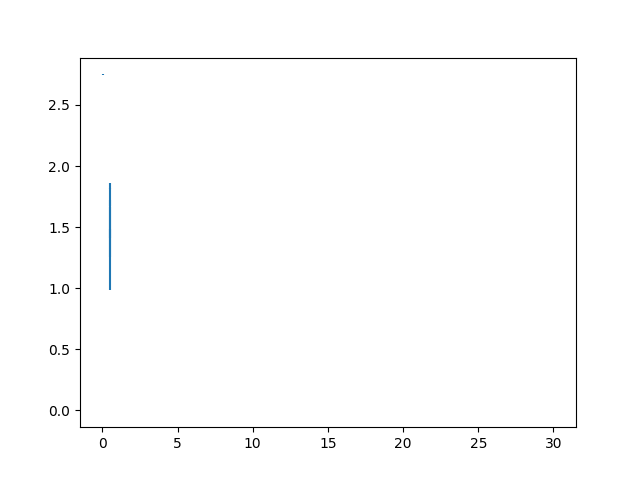
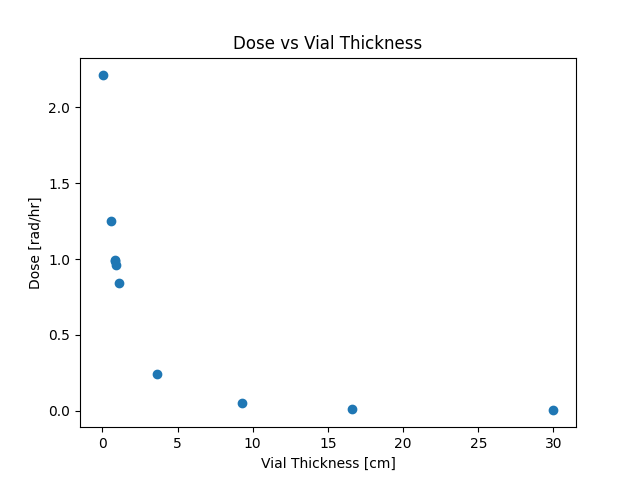
Lucite run

diff --git a/NE406/mat2/vial.py b/NE406/mat2/vial.py
@@ -32,11 +32,11 @@ class vial(object):
         c Outer vial cylinder of tissue
         1       1       -1      2 -1           imp:p=1
         c
-        c 2 Inner wall of poly
-        2       2       -0.97   3 -2           imp:p=1
+        c 2 Inner wall of lucy
+        2       2       -1.18   3 -2           imp:p=1
         c
-        c Cs in vial
-        3       3       -1.873 -3              imp:p=1
+        c P in vial
+        3       3       -1.82 -3              imp:p=1
         c
         c VOID
         99      0       1                      imp:p=0
@@ -47,18 +47,18 @@ class vial(object):
         c 1 outer tissue cylinder
         1 rcc 0.0 0.0 0.0   0.0 0.0 10.0    {self.vialThickness + 1.49}
         c
-        c 2 outer poly
+        c 2 outer lucy
         2 rcc 0.0 0.0 0.0   0.0 0.0 10.0    {self.vialThickness + 0.49}
         c
-        c 3 outer Cs
+        c 3 outer P
         3 rcc 0.0 0.0 0.2   0.0 0.0 9.6     0.49
 
         c ---------------------------------
         c      Data cards
         c ---------------------------------
         m1 1001 2 8016 2        $Tissue
-        m2 6012 2 1001 4        $poly
-        m3 55137 1              $Cs137
+        m2 6012 0.599848 1001 0.08538 8016 0.319614 $Lucite
+        m3 15032 1              $P32
         mode p
         nps 1e6
         sdef pos=0 0 5 axs=0 0 1 cell=3 erg=0.661 par=p rad=d1 ext=d2

diff --git a/NE406/finalProject/plotConverge.py b/NE406/finalProject/plotConverge.py
@@ -1,6 +1,8 @@
 #!/usr/bin/env python3
 import matplotlib.pyplot as plt
 import os
+import numpy as np
+import scipy.optimize as sp
 
 file = os.getcwd() + '/converge/ConvergeDose.txt'
 
@@ -15,9 +17,27 @@ with open(file, 'r') as f:
 
 thick.pop(0), dose.pop(0), doseE.pop(0)
 
+
+
 xvals = [float(t) for t in thick]
 yvals = [float(d) for d in dose]
 yerrs = [float(e) for e in doseE]
 
-plt.errorbar(xvals,yvals,yerr=yerrs, ls='')
-plt.savefig('dosePlot.png')
+# Make fit
+def expdecay(x, a, b):
+    return a*np.exp(-1*b*x)
+
+a, b = sp.curve_fit(expdecay, xvals, yvals, sigma=yerrs)
+
+xfit = np.arange(0, 30, 0.01)
+yfit = [a*np.exp(-1*b*x) for x in xfit]
+print(yfit)
+
+
+# plt.errorbar(xvals,yvals,yerr=yerrs, marker='o', ls='')
+# plt.plot(xfit, yfit, 'r-')
+# plt.title('Dose vs Vial Thickness')
+# plt.xlabel('Vial Thickness [cm]')
+# plt.ylabel('Dose [rad/hr]')
+# plt.savefig('dosePlot.png')
+# plt.close()
